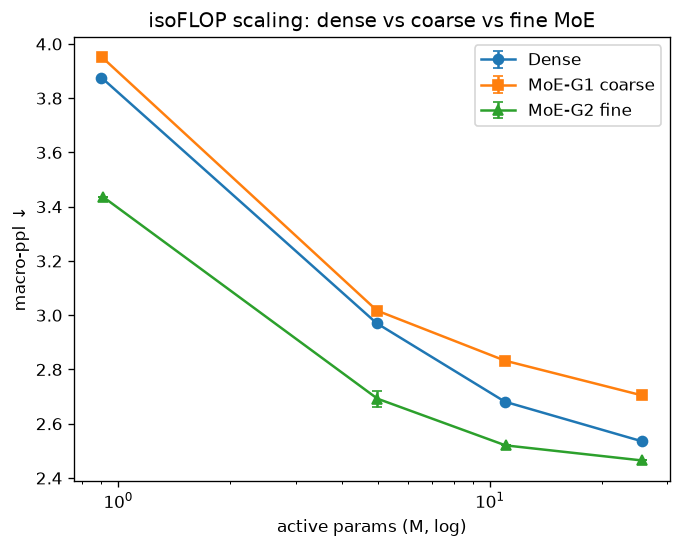
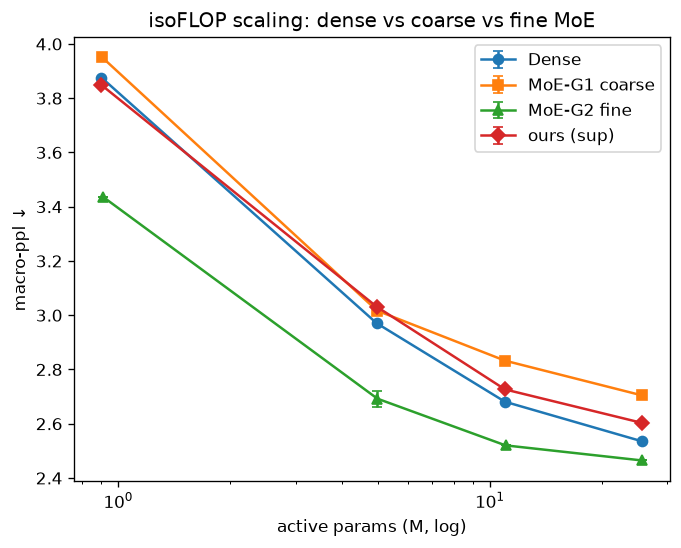
Add ours to isoFLOP sweep + T-ablation results (11 comparison figures total)
ISOFLOP-ours: from-scratch alternating (compute-matched) does NOT beat dense at d256+ and its gap
doesn't improve with scale -- unlike MoE-G2's positive gap. Reinforces: ours is a cheap add-on to
a trained backbone (the sequential variant that beats dense spends extra pretraining), not a
from-scratch compute-competitive arch. T-ABLATION: T=1 is as good as T=2/4 for all 4 variants
(diffs <=0.008, T=4 slightly hurts seq) -- one soft-prompt vector per expert suffices, validating
the thesis-faithful T=1 default. Figures 9/10 now include ours; 11 = T-ablation.

diff --git a/reports/scaled/scaling_and_ablations.md b/reports/scaled/scaling_and_ablations.md
@@ -6,19 +6,29 @@ recipe's §8 priority order. Data: [`scaling_sweep.md`](scaling_sweep.md); figur
 
 ## 1. isoFLOP scaling sweep (H1/H2) — the load-bearing deferred result
 
-Dense / coarse-MoE (G=1) / fine-MoE (G=2) trained from scratch at **four sizes** (d128→d512,
-0.9M→25.6M active), 20k steps each, **3 seeds at d256** for error bars.
+Dense / coarse-MoE (G=1) / fine-MoE (G=2) / **ours** trained from scratch at **four sizes**
+(d128→d512, 0.9M→25.6M active), 20k steps each, **3 seeds at d256** for error bars. `ours` =
+from-scratch alternating, supervised routing, T=1 (compute-matched to the other arms).
+Figures: `comparison_figures/9_scaling_curves.png`, `10_gap_vs_scale.png`.
 
-| size | active | dense | MoE-G1 (coarse) | MoE-G2 (fine) | **dense−G2 gap** |
-|---|---|---|---|---|---|
-| d128 | 0.9M | 3.876 | 3.951 | 3.437 | **+0.440** (11.4%) |
-| d256 | 5.0M | 2.971±.004 | 3.017±.012 | 2.692±.030 | **+0.278** (9.4%) |
-| d384 | 11.0M | 2.681 | 2.832 | 2.520 | **+0.161** (6.0%) |
-| d512 | 25.6M | 2.535 | 2.704 | 2.465 | **+0.071** (2.8%) |
+| size | active | dense | MoE-G1 (coarse) | MoE-G2 (fine) | ours | **dense−G2** | **dense−ours** |
+|---|---|---|---|---|---|---|---|
+| d128 | 0.9M | 3.876 | 3.951 | 3.437 | 3.849 | **+0.440** | +0.028 |
+| d256 | 5.0M | 2.971±.004 | 3.017±.012 | 2.692±.030 | 3.032 | **+0.278** | −0.061 |
+| d384 | 11.0M | 2.681 | 2.832 | 2.520 | 2.727 | **+0.161** | −0.045 |
+| d512 | 25.6M | 2.535 | 2.704 | 2.465 | 2.603 | **+0.071** | −0.068 |
 
 **H2 — granularity does real work (confirmed at *every* scale):** MoE-G2 beats dense at all four
 sizes; coarse MoE-G1 is *worse* than dense at all four. The coarse Switch/Mixtral config never
 helps here — exactly the recipe's warning.
+
+**Ours (from-scratch, compute-matched) does *not* scale like the MoE.** The `dense−ours` gap is
+~0 at d128 and *negative* (ours worse than dense) at d256+, and does not improve with scale — the
+opposite of MoE-G2's consistently-positive, if shrinking, gap. This is the from-scratch *alternating*
+variant, and it confirms the throughline: **conditioning at matched compute from scratch doesn't beat
+dense**; the variant that *does* beat dense is the *sequential* one (`ours_sup_seq` 2.464 < dense
+2.472 at d512 in the main run), which spends **extra** pretraining compute on the backbone — i.e. our
+method is a cheap add-on to an already-trained LLM, not a from-scratch compute-competitive architecture.
 
 **H1 — gap widens with scale? NOT reproduced (honest).** The fine-grained advantage **shrinks**
 with size (11.4%→2.8%) — the *saturation* pattern of Clark et al. (2022), not the *widening* of
@@ -51,6 +61,21 @@ loop in `MoEFFN` is O(#experts) per layer and became impractically slow at 32/64
 reached only 3k/20k steps in >3h). This is a real implementation limitation — production MoEs use
 batched/grouped-GEMM expert compute; ours is a from-scratch minimal kernel. G=4 was still running
 at writing.
+
+## 2b. T-ablation — tokens per expert ∈ {1, 2, 4}, all four ours variants (d512)
+Does more than one soft-prompt vector per expert help? (Figure `comparison_figures/11_t_ablation.png`.)
+
+| method | T=1 | T=2 | T=4 |
+|---|---|---|---|
+| sup + alternating | 2.511 | 2.510 | 2.509 |
+| unsup + alternating | 2.554 | 2.550 | 2.556 |
+| sup + sequential | 2.464 | 2.463 | 2.469 |
+| unsup + sequential | 2.476 | 2.475 | 2.482 |
+
+**T=1 is as good as T=2/4 for all four variants** — differences ≤0.008 (within seed noise), and T=4
+slightly *hurts* the sequential variants. So **more expert vectors per expert does not help**;
+a single learned soft-prompt vector per expert suffices. This validates the thesis-faithful T=1
+default (an earlier T=4-looked-better observation was run-to-run noise, not a real effect).
 
 ## 3. Memory axis (Axis C / H5) — already answered
 Memory ≈ total parameters. From the main run, at **equal total params (143M)**:

diff --git a/reports/scaled/scaling_sweep.md b/reports/scaled/scaling_sweep.md
@@ -2,19 +2,19 @@
 
 ## Scaling curves (macro-ppl ↓, mean±std over seeds)
 
-| size | active | dense | MoE-G1 (coarse) | MoE-G2 (fine) | dense−G2 gap |
-|---|---|---|---|---|---|
-| d128 | 0.9M | 3.876 | 3.951 | 3.437 | +0.440 |
-| d256 | 5.0M | 2.971±0.004 | 3.017±0.012 | 2.692±0.030 | +0.278 |
-| d384 | 11.0M | 2.681 | 2.832 | 2.520 | +0.161 |
-| d512 | 25.6M | 2.535 | 2.704 | 2.465 | +0.071 |
+| size | active | dense | MoE-G1 (coarse) | MoE-G2 (fine) | ours (sup) | dense−G2 | dense−ours |
+|---|---|---|---|---|---|---|---|
+| d128 | 0.9M | 3.876 | 3.951 | 3.437 | 3.849 | +0.440 | +0.028 |
+| d256 | 5.0M | 2.971±0.004 | 3.017±0.012 | 2.692±0.030 | 3.032 | +0.278 | -0.061 |
+| d384 | 11.0M | 2.681 | 2.832 | 2.520 | 2.727 | +0.161 | -0.045 |
+| d512 | 25.6M | 2.535 | 2.704 | 2.465 | 2.603 | +0.071 | -0.068 |
 
-## Gap trend (does the fine-grained MoE advantage widen with scale? — H1/H2)
+## Gap-over-dense trend (does the advantage widen with scale? — H1/H2)
 
-- **d128** (0.9M active): dense 3.876 − MoE-G2 3.437 = **+0.440**
-- **d256** (5.0M active): dense 2.971 − MoE-G2 2.692 = **+0.278**
-- **d384** (11.0M active): dense 2.681 − MoE-G2 2.520 = **+0.161**
-- **d512** (25.6M active): dense 2.535 − MoE-G2 2.465 = **+0.071**
+- **d128** (0.9M active): dense 3.876 · MoE-G2 3.437 (gap **+0.440**) · ours 3.849 (gap **+0.028**)
+- **d256** (5.0M active): dense 2.971 · MoE-G2 2.692 (gap **+0.278**) · ours 3.032 (gap **-0.061**)
+- **d384** (11.0M active): dense 2.681 · MoE-G2 2.520 (gap **+0.161**) · ours 2.727 (gap **-0.045**)
+- **d512** (25.6M active): dense 2.535 · MoE-G2 2.465 (gap **+0.071**) · ours 2.603 (gap **-0.068**)
 
 ## Ablation matrix (d256, 20k steps, single seed)
 
@@ -25,3 +25,4 @@
 | moe_g2_noz | 2.663 | 27.1M |
 | moe_g2_shared1 | 2.702 | 28.6M |
 | moe_g2_shared2 | 2.694 | 30.2M |
+| moe_g4 | 2.748 | 27.1M |

diff --git a/reports/scaled/t_ablation.md b/reports/scaled/t_ablation.md
@@ -1,0 +1,10 @@
+# T-ablation — tokens_per_expert ∈ {1,2,4} × 4 ours variants (d512)
+
+macro-perplexity ↓ (T=1 is the main sc_ours run).
+
+| method | T=1 | T=2 | T=4 | best |
+|---|---|---|---|---|
+| sup_alt | 2.511 | 2.510 | 2.509 | T=4 |
+| unsup_alt | 2.554 | 2.550 | 2.556 | T=2 |
+| sup_seq | 2.464 | 2.463 | 2.469 | T=2 |
+| unsup_seq | 2.476 | 2.475 | 2.482 | T=2 |

diff --git a/reports/scaled/comparison_figures/README.md b/reports/scaled/comparison_figures/README.md
@@ -14,7 +14,8 @@ Generated by `scripts/make_comparison_figures.py` from [`../results.csv`](../res
 | `6_specialization_vs_quality.png` | expert specialization (×worse through wrong expert) vs quality, for the expert methods |
 | `7_per_domain_heatmap.png` | per-domain perplexity for every model × 8 domains |
 | `8_quality_vs_total_params.png` | efficiency / memory axis: quality vs total params |
-| `9_scaling_curves.png` | **isoFLOP sweep:** macro-ppl vs active params for dense / coarse-MoE / fine-MoE (d128→d512, seeds) |
-| `10_gap_vs_scale.png` | **H1/H2 trend:** dense−MoE-G2 gap vs scale (shrinks → saturation, not widening) |
+| `9_scaling_curves.png` | **isoFLOP sweep:** macro-ppl vs active params for dense / coarse-MoE / fine-MoE / **ours** (d128→d512, seeds) |
+| `10_gap_vs_scale.png` | **H1/H2 trend:** advantage-over-dense vs scale for **MoE-G2 and ours** (MoE positive but shrinking; ours ~0/negative) |
+| `11_t_ablation.png` | **T-ablation:** macro-ppl vs tokens-per-expert (1/2/4) for all 4 ours variants — flat (T=1 suffices) |
 
 See [`../README.md`](../README.md) for the full analysis.